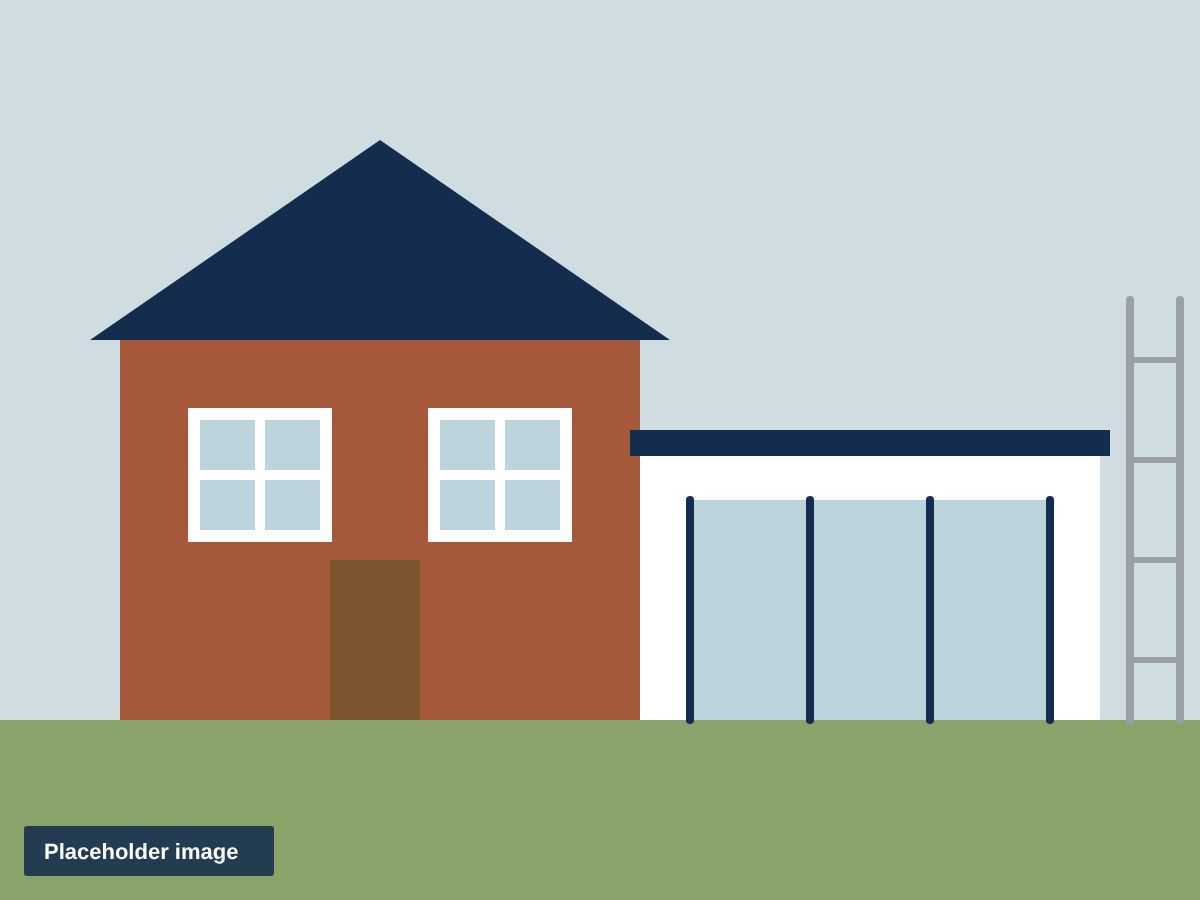
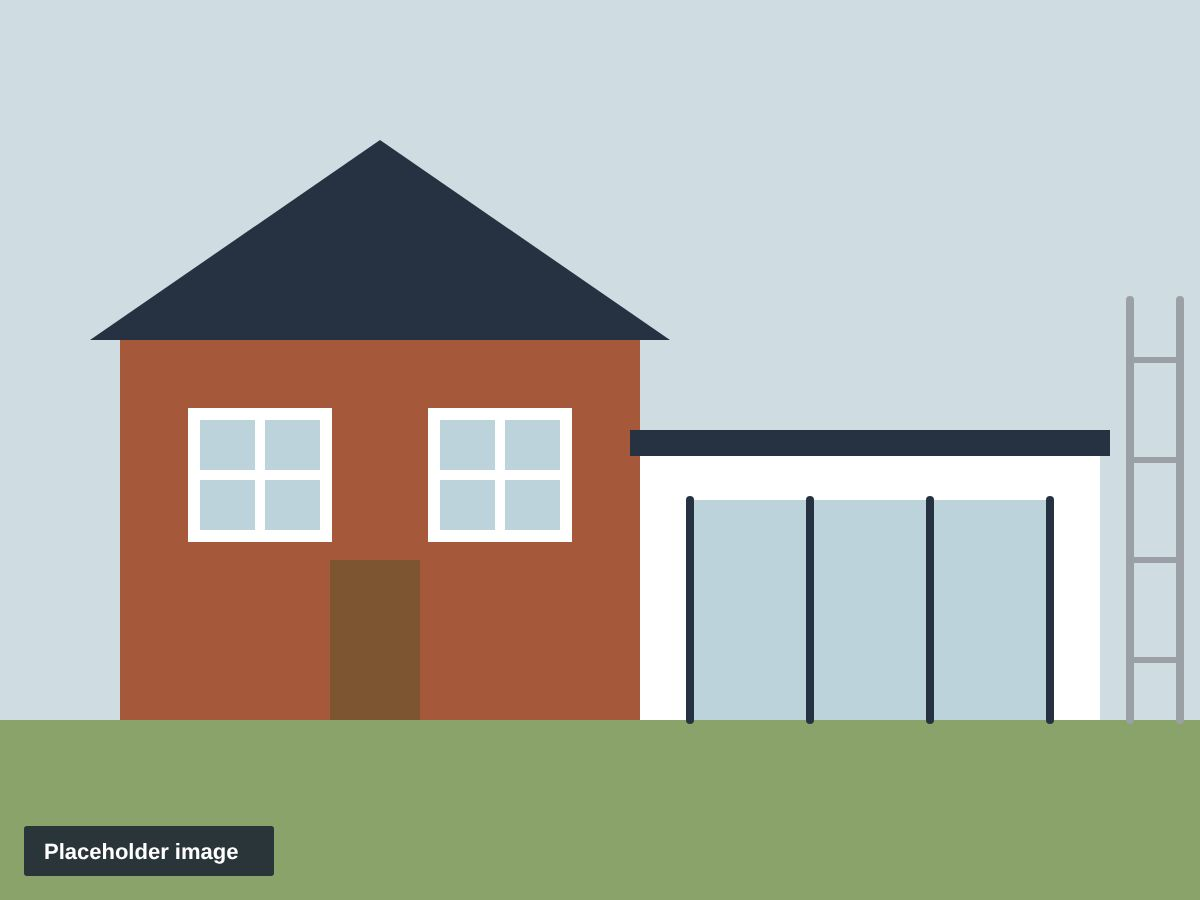
Revert "Switch to a navy and amber colour theme"
This reverts commit 83e58ffc33f1ae6c299dfd6745af1ab7b3baeb5c.

Changed region(s): [[0.0, 0.9022, 0.2467, 0.9956]]

diff --git a/css/style.css b/css/style.css
@@ -73,7 +73,7 @@ header {
 .hero h1 { font-size: clamp(2rem, 5vw, 3.2rem); line-height: 1.15; margin: 0 0 16px; max-width: 16ch; text-wrap: balance; }
 .hero p { font-size: 1.15rem; color: #d5d8dc; max-width: 52ch; margin: 0 0 32px; }
 .hero .actions { display: flex; gap: 12px; flex-wrap: wrap; }
-.hero .eyebrow { color: #f5b82e; font-size: .8rem; margin: 0 0 8px; }
+.hero .eyebrow { color: #7fd3cd; font-size: .8rem; margin: 0 0 8px; }
 .hero.small { padding: 64px 0 56px; }
 .hero.small h1 { max-width: 24ch; }
 .hero.small p { margin-bottom: 0; }
@@ -237,7 +237,7 @@ h2 { font-size: clamp(1.6rem, 3.5vw, 2.2rem); margin: 0 0 16px; line-height: 1.2
 .find-us { background: var(--dark); color: #fff; border-radius: 14px; padding: 32px 28px; }
 .find-us h2 { color: #fff; font-size: 1.3rem; display: flex; align-items: center; gap: 10px; margin: 0 0 14px; }
 .find-us h2 svg { color: var(--accent); width: 24px; height: 24px; }
-.find-us h3 { font-size: .8rem; text-transform: uppercase; letter-spacing: .1em; color: #f5b82e; margin: 24px 0 4px; }
+.find-us h3 { font-size: .8rem; text-transform: uppercase; letter-spacing: .1em; color: #7fd3cd; margin: 24px 0 4px; }
 .find-us address, .find-us p { font-style: normal; color: #c9cdd2; margin: 0; line-height: 1.7; }
 .find-us address strong { color: #fff; }
 form.quote { display: grid; gap: 18px 20px; grid-template-columns: 1fr 1fr; }
@@ -420,7 +420,7 @@ header { background: var(--dark); border-bottom: 4px solid var(--accent); backdr
 .hero { position: relative; overflow: hidden; isolation: isolate; background: var(--dark); }
 .hero h1 { letter-spacing: 0; }
 .hero.small { padding: 56px 0 60px; }
-.crumbs { display: flex; gap: 10px; align-items: center; color: #f5b82e; font-size: .9rem; font-weight: 700; letter-spacing: .1em; text-transform: uppercase; margin: 0 0 12px !important; }
+.crumbs { display: flex; gap: 10px; align-items: center; color: #7fd3cd; font-size: .9rem; font-weight: 700; letter-spacing: .1em; text-transform: uppercase; margin: 0 0 12px !important; }
 .crumbs a { color: #c3cbd5; text-decoration: none; }
 .crumbs a:hover { color: #fff; text-decoration: underline; }
 .crumbs span { color: #8793a1; }
@@ -429,9 +429,9 @@ header { background: var(--dark); border-bottom: 4px solid var(--accent); backdr
 .hero-bg { position: absolute; inset: 0; z-index: -1; }
 .hero-bg img { width: 100%; height: 100%; object-fit: cover; opacity: .3; }
 .hero-inner { display: grid; grid-template-columns: minmax(0, 1.6fr) minmax(0, 1fr); gap: 48px; align-items: center; padding-block: 88px 80px; }
-.hero-tag { margin: 0 0 14px !important; font-size: .9rem !important; font-weight: 700; letter-spacing: .14em; text-transform: uppercase; color: #f5b82e !important; }
+.hero-tag { margin: 0 0 14px !important; font-size: .9rem !important; font-weight: 700; letter-spacing: .14em; text-transform: uppercase; color: #7fd3cd !important; }
 .home-hero h1 { font-size: clamp(2.4rem, 5.6vw, 4rem); line-height: 1.08; max-width: 14ch; margin-bottom: 20px; }
-.home-hero h1 em { font-style: normal; color: #f5b82e; }
+.home-hero h1 em { font-style: normal; color: #7fd3cd; }
 .hero-trust { list-style: none; margin: 0; padding: 0; display: grid; gap: 0; border-left: 4px solid var(--accent); }
 .hero-trust li { padding: 14px 0 14px 22px; display: grid; gap: 2px; }
 .hero-trust li + li { border-top: 1px solid rgba(255,255,255,.12); }
@@ -468,7 +468,7 @@ footer .btn:hover { text-decoration: none; }
 @media (max-width: 760px) {
   .menu { background: var(--dark-2); border-bottom: 4px solid var(--accent); top: 76px; }
   .menu a { border-bottom-color: rgba(255,255,255,.1); }
-  .menu a[aria-current="page"] { color: #f5b82e; border-bottom-color: rgba(255,255,255,.1); }
+  .menu a[aria-current="page"] { color: #7fd3cd; border-bottom-color: rgba(255,255,255,.1); }
 }
 @media (max-width: 480px) {
   .logo .word { font-size: 1.1rem; }
@@ -517,38 +517,3 @@ footer .btn:hover { text-decoration: none; }
 .signpost span { margin-top: auto; padding-top: 10px; color: var(--accent); font-weight: 700; }
 .signpost span::after { content: " \2192"; }
 .signpost:hover span { text-decoration: underline; }
-
-
-/* ---------- Navy & amber theme ---------- */
-:root {
-  --ink: #142d4e;
-  --muted: #5a6675;
-  --bg: #f4f6f8;
-  --card: #ffffff;
-  --line: #dde2e8;
-  --dark: #142d4e;
-  --dark-2: #1c3a61;
-  --accent: #f5b82e;
-  --accent-dark: #e3a514;
-  --accent-soft: #fdf1d6;
-  --accent-ink: #94650a;   /* amber dark enough to read as text on white */
-}
-body { color: #1f2a37; }
-h1, h2, h3 { color: var(--ink); }
-.hero h1, .hero h2, .contact-box h2, .find-us h2, footer h2, .hero-trust strong { color: #fff; }
-
-/* Amber surfaces carry navy text, as white on amber is hard to read */
-.btn, footer .btn, .logo .mark, .strip li, .steps li::before, .ba-tag-after, ::selection { color: var(--dark); }
-.btn:hover { background: var(--accent-dark); }
-.btn.ghost { color: #fff; }
-.btn.ghost:hover { color: var(--dark); background: #fff; }
-.btn.outline { color: var(--accent-ink); border-color: var(--accent); }
-.btn.outline:hover { background: var(--accent-soft); }
-.strip li + li { border-left-color: rgba(20,45,78,.35); }
-
-/* Amber used as text or icons on light backgrounds uses the deeper shade */
-main .eyebrow, .card .more, .signpost span, .checklist li::before, .stars, .car-btn:hover, .lb-btn:hover,
-.card .icon, .service h2 .icon, .quick svg, .contact-list svg { color: var(--accent-ink); }
-.hero .eyebrow, .contact-box .eyebrow, .find-us h2 svg, .find-us h3, .crumbs, .hero-tag { color: var(--accent) !important; }
-.note { color: #6b4a06; }
-@media (max-width: 760px) { .menu a[aria-current="page"] { color: var(--accent); } }

diff --git a/contact.html b/contact.html
@@ -8,7 +8,7 @@
   <link rel="preconnect" href="https://fonts.googleapis.com">
   <link rel="preconnect" href="https://fonts.gstatic.com" crossorigin>
   <link rel="stylesheet" href="https://fonts.googleapis.com/css2?family=Zilla+Slab:wght@500;600;700&family=Source+Sans+3:wght@400;600;700&display=swap">
-  <link rel="stylesheet" href="css/style.css?v=45f34a15">
+  <link rel="stylesheet" href="css/style.css?v=2b75e587">
 </head>
 <body id="top">
 

diff --git a/gallery.html b/gallery.html
@@ -8,7 +8,7 @@
   <link rel="preconnect" href="https://fonts.googleapis.com">
   <link rel="preconnect" href="https://fonts.gstatic.com" crossorigin>
   <link rel="stylesheet" href="https://fonts.googleapis.com/css2?family=Zilla+Slab:wght@500;600;700&family=Source+Sans+3:wght@400;600;700&display=swap">
-  <link rel="stylesheet" href="css/style.css?v=45f34a15">
+  <link rel="stylesheet" href="css/style.css?v=2b75e587">
 </head>
 <body id="top">
 

diff --git a/index.html b/index.html
@@ -8,7 +8,7 @@
   <link rel="preconnect" href="https://fonts.googleapis.com">
   <link rel="preconnect" href="https://fonts.gstatic.com" crossorigin>
   <link rel="stylesheet" href="https://fonts.googleapis.com/css2?family=Zilla+Slab:wght@500;600;700&family=Source+Sans+3:wght@400;600;700&display=swap">
-  <link rel="stylesheet" href="css/style.css?v=45f34a15">
+  <link rel="stylesheet" href="css/style.css?v=2b75e587">
 </head>
 <body id="top">
 

diff --git a/reviews.html b/reviews.html
@@ -8,7 +8,7 @@
   <link rel="preconnect" href="https://fonts.googleapis.com">
   <link rel="preconnect" href="https://fonts.gstatic.com" crossorigin>
   <link rel="stylesheet" href="https://fonts.googleapis.com/css2?family=Zilla+Slab:wght@500;600;700&family=Source+Sans+3:wght@400;600;700&display=swap">
-  <link rel="stylesheet" href="css/style.css?v=45f34a15">
+  <link rel="stylesheet" href="css/style.css?v=2b75e587">
 </head>
 <body id="top">
 

diff --git a/services.html b/services.html
@@ -8,7 +8,7 @@
   <link rel="preconnect" href="https://fonts.googleapis.com">
   <link rel="preconnect" href="https://fonts.gstatic.com" crossorigin>
   <link rel="stylesheet" href="https://fonts.googleapis.com/css2?family=Zilla+Slab:wght@500;600;700&family=Source+Sans+3:wght@400;600;700&display=swap">
-  <link rel="stylesheet" href="css/style.css?v=45f34a15">
+  <link rel="stylesheet" href="css/style.css?v=2b75e587">
 </head>
 <body id="top">
 
